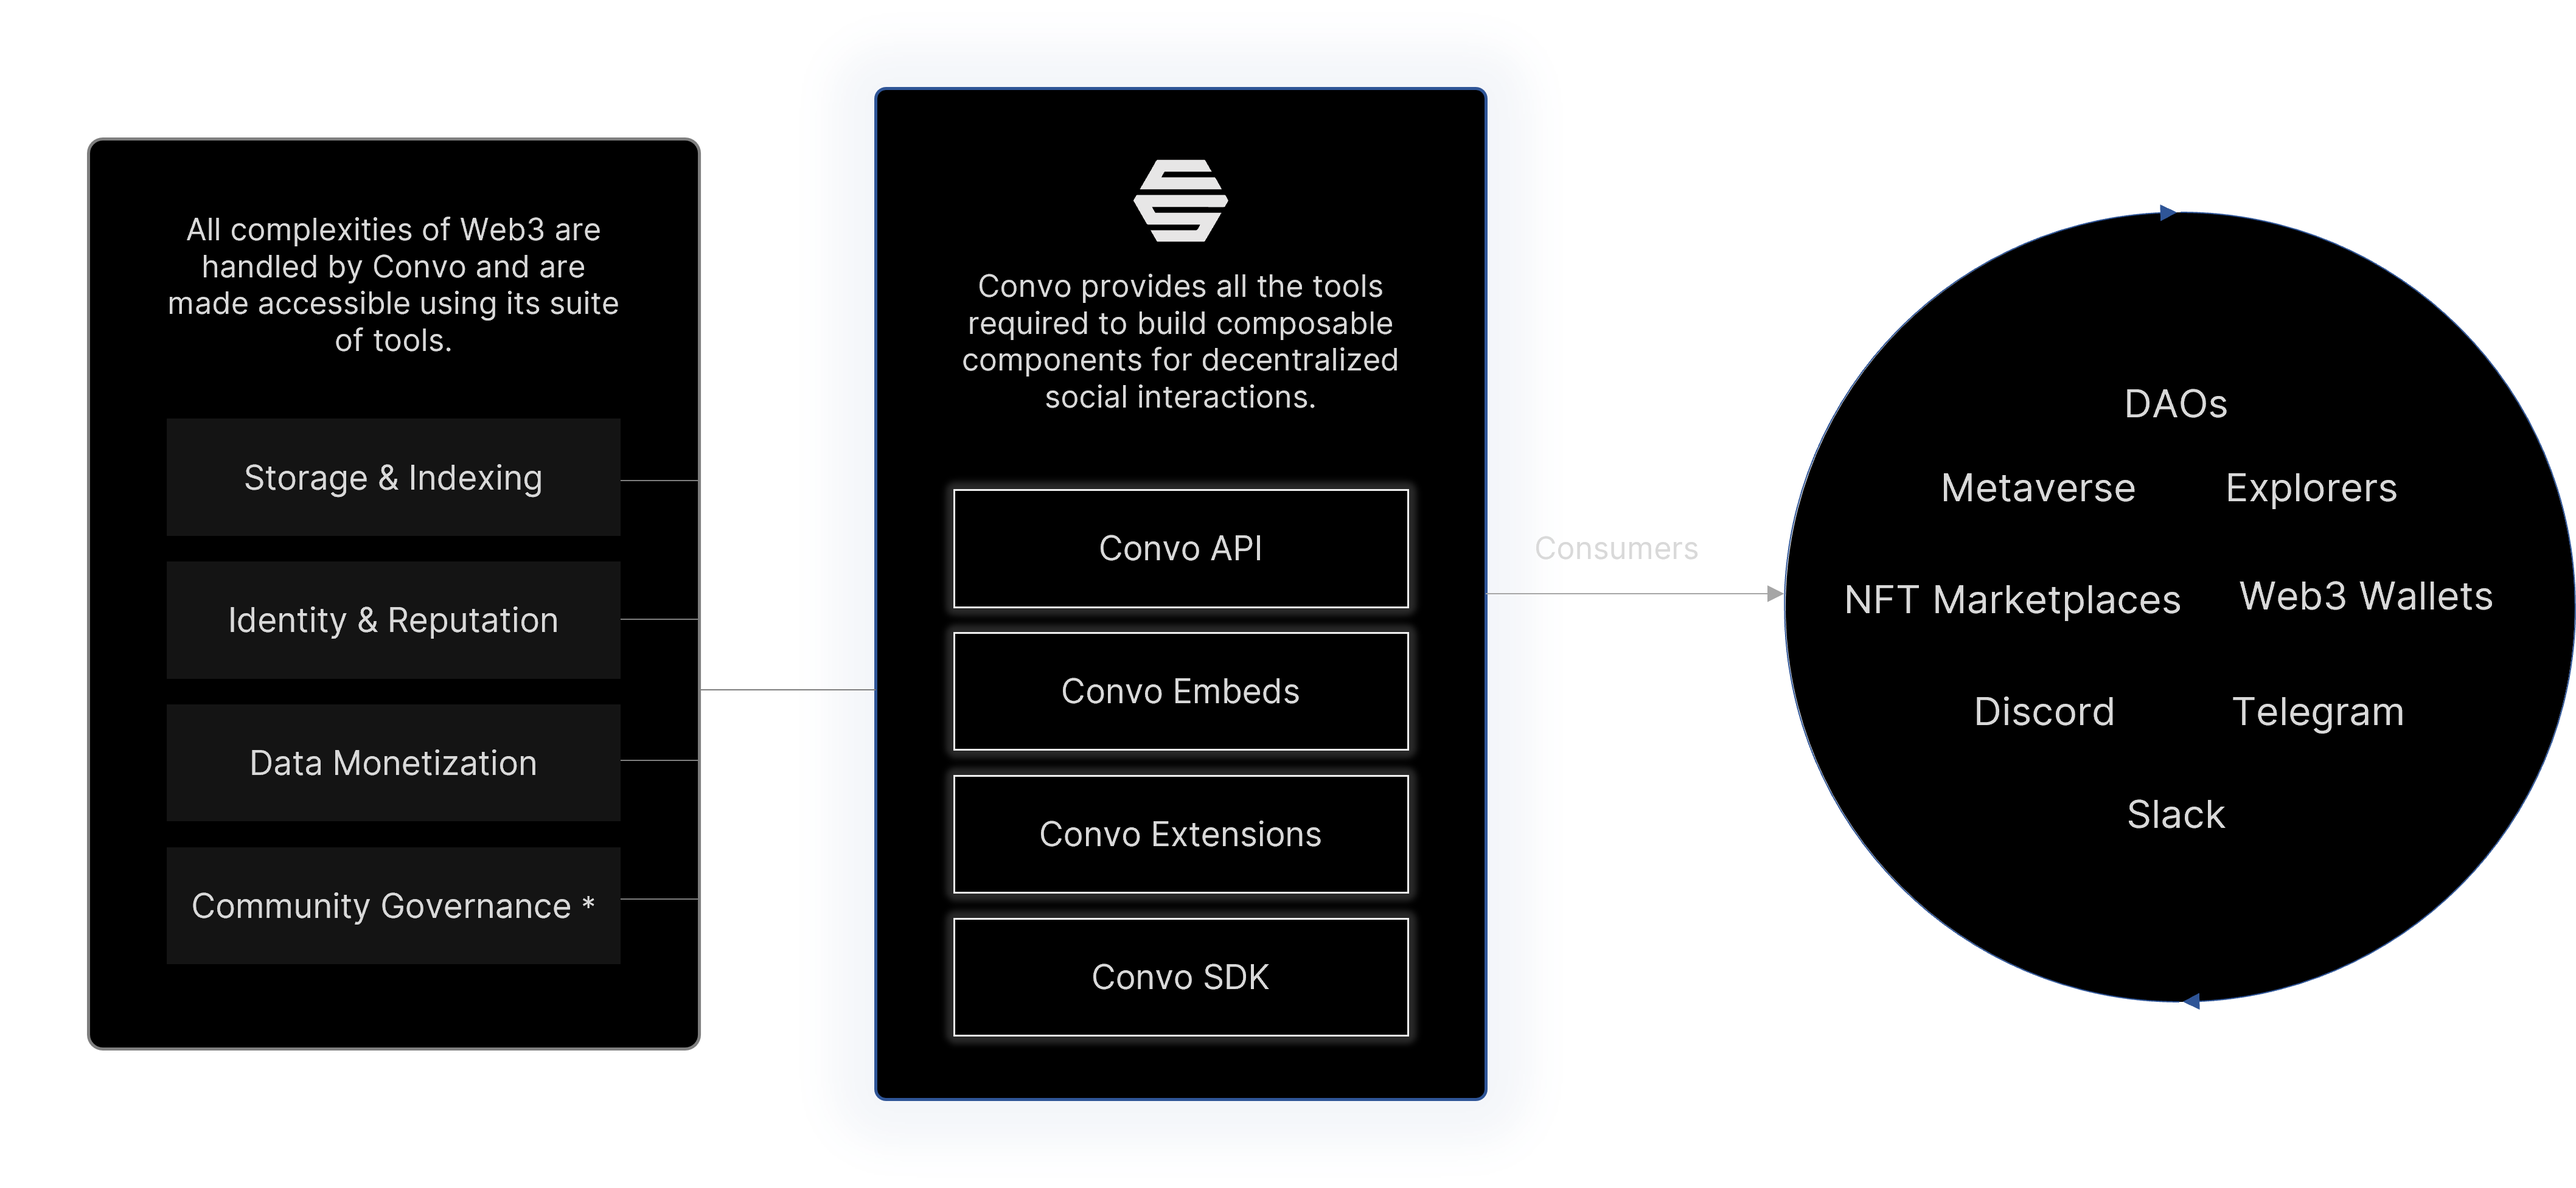
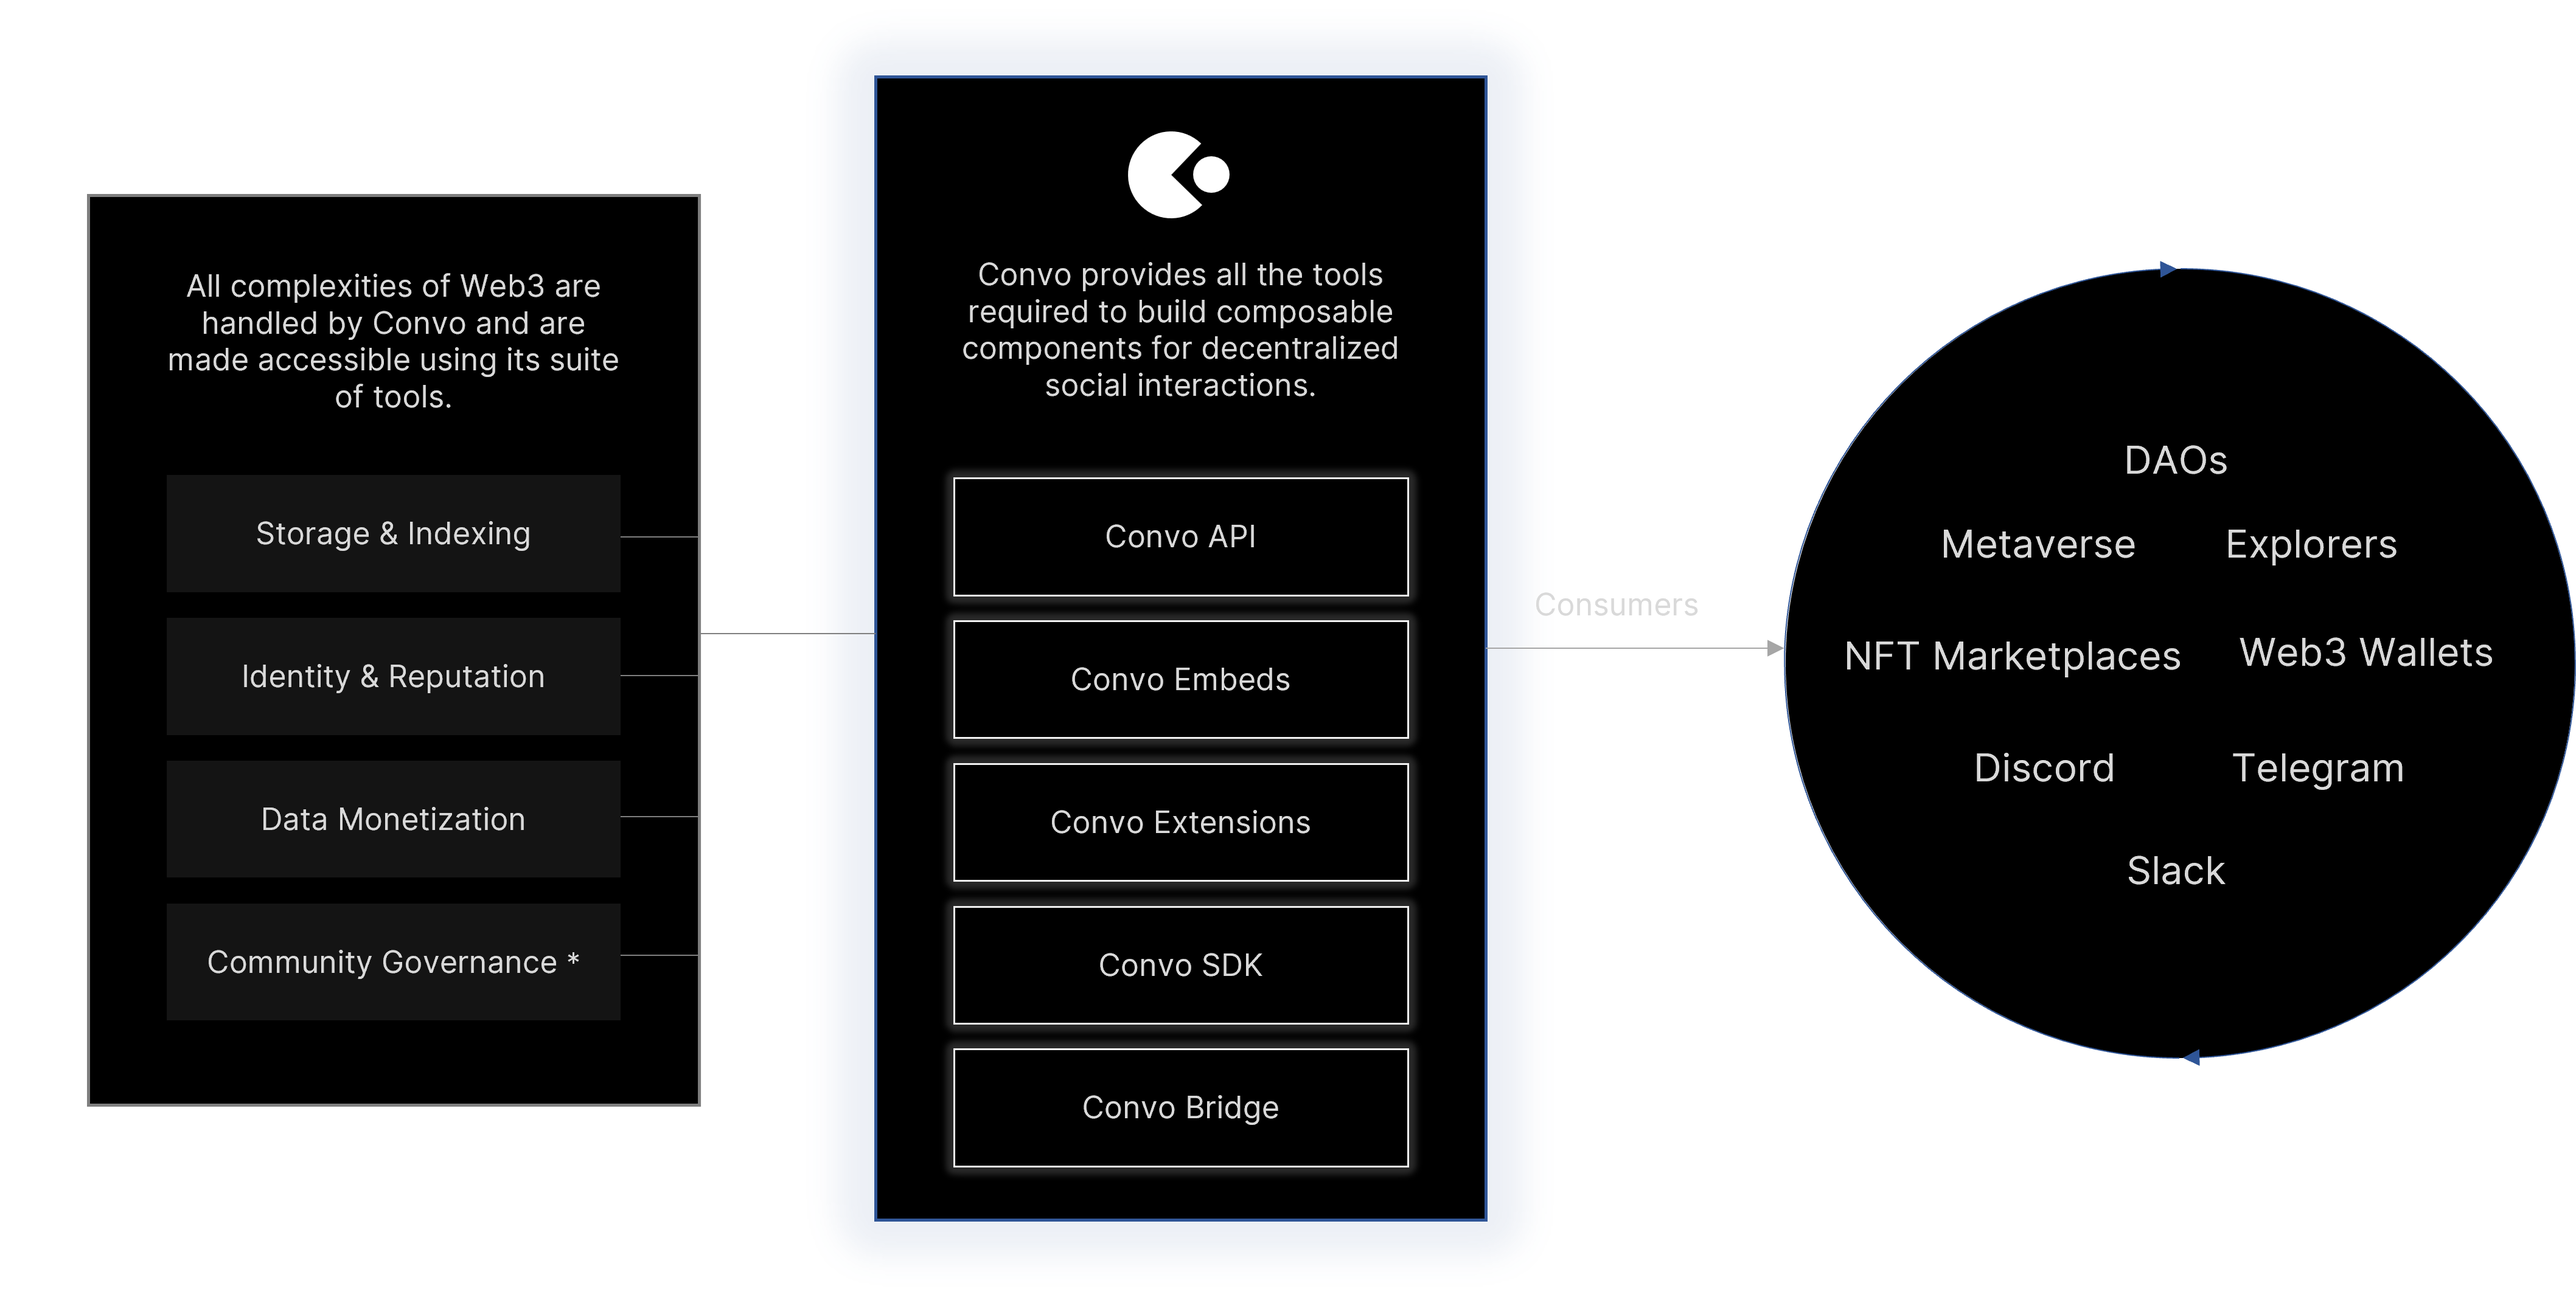
Design Updates

diff --git a/components/Logo.js b/components/Logo.js
@@ -1,7 +1,9 @@
 const Logo = ({ height = 20, classes = '' }) => (
-    <svg height={height} className={classes} xmlns="http://www.w3.org/2000/svg" version="1.0" viewBox="0 0 512 512">
-        <path className="convologo" d="M359 383H81c-3 0-5-1-7-4L5 259c-2-3-2-5 0-8l13-23c1-2 3-3 5-3h463c5 0 7 1 9 5l12 22c2 2 2 4 0 6l-15 27c-2 3-4 5-9 5l-218-1H102l16 29c1 2 3 2 4 2h350l-20 35-67 114c-2 4-4 5-8 5H135c-3 0-5 1-7-2l-34-59h242c4 0 7-1 9-5l14-25zM37 195l65-112 23-41c2-3 4-4 8-4h246c3 0 5 0 6 2l35 61H174c-4 0-6 1-8 5l-14 25h280c4 0 7 1 9 5l33 59H37z"/>
+    <svg height={height} className={classes} xmlns="http://www.w3.org/2000/svg" version="1.1" viewBox="0 0 1000 1000">
+        <path className="convologo" fill="#010101" d="M461 500l234 226a326 326 0 11-8-461L461 500z"/>
+        <circle className="convologo" fill="#010101" cx="762.4" cy="500" r="137.2"/>
     </svg>
+
 )
 
 
